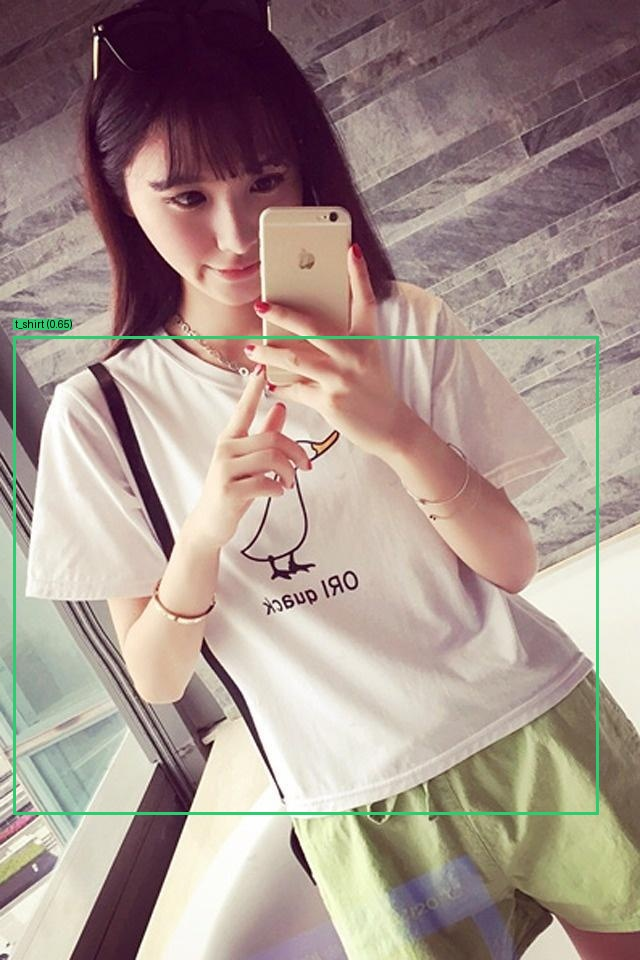
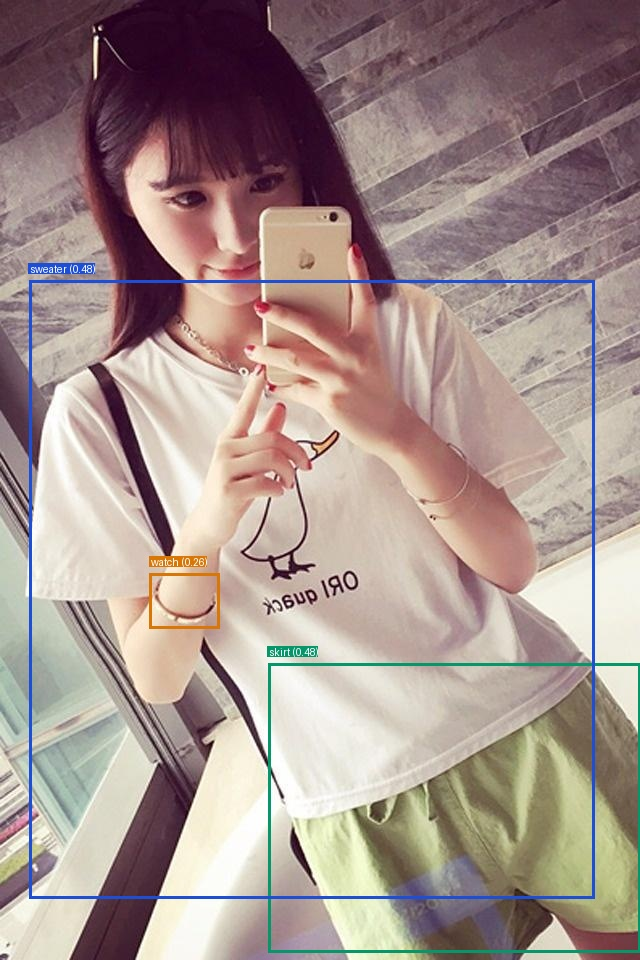
fix(pipeline): resolve duplicate category overlap and add saliency protection for full-detail garment crops

Changed region(s): [[0.0, 0.25, 1.0, 1.0], [0.2188, 0.5625, 0.3438, 0.6562]]

diff --git a/real_image_pipeline/yolo_detect_and_crop.py b/real_image_pipeline/yolo_detect_and_crop.py
@@ -3,15 +3,14 @@ yolo_detect_and_crop.py
 =======================
 Autonomous real-photo garment detection and extraction stage.
 Supports:
-  1. YOLO-World (Default: `yolov8s-worldv2.pt`): Fast, open-vocabulary fashion detector
+  1. YOLO-World (Default: `yolov8s-worldv2.pt`): Fast, high-accuracy fashion detector
      optimized for real user photos (selfies, mirror shots, street photos).
   2. YOLOS-Fashionpedia (`valentinafeve/yolos-fashionpedia`): Vision Transformer detector.
 
 Features:
   - Real-image input (no ground-truth annotations needed).
-  - Multi-garment localization with fine-grained clothing classifications (jacket, blouse, pants, shorts, skirt, dress, etc.).
-  - IoU-based Non-Maximum Suppression (NMS) deduplication.
-  - Full-context transparent RGBA garment isolation (U2Net) to avoid background noise.
+  - Mutually distinct clothing categories with cross-category NMS deduplication.
+  - Saliency-protected transparent garment isolation (U2Net) to preserve all fabric/logo details.
   - Standard repository contract outputs/<image_id>/ for downstream CLIP & GNN compatibility.
   - Annotated visual overlay image (<image_id>_vis.jpg) for explainability.
 """
@@ -26,24 +25,19 @@ import torch
 # Local imports
 try:
     from category_mapping import map_category
-    from bg_removal import remove_full_image_background, isolate_garment_background, is_rembg_available
+    from bg_removal import remove_full_image_background, safe_extract_crop, isolate_garment_background, is_rembg_available
 except ImportError:
     from real_image_pipeline.category_mapping import map_category
-    from real_image_pipeline.bg_removal import remove_full_image_background, isolate_garment_background, is_rembg_available
+    from real_image_pipeline.bg_removal import remove_full_image_background, safe_extract_crop, isolate_garment_background, is_rembg_available
 
-# Default to YOLO-World for real-world photo accuracy
 DEFAULT_MODEL_NAME = "yolo-world"
 DEFAULT_YOLO_WORLD_CHECKPOINT = "yolov8s-worldv2.pt"
 
-# Fashion vocabulary for YOLO-World zero-shot prompt
+# Clean, mutually distinct fashion classes for YOLO-World
 FASHION_VOCABULARY = [
-    "t-shirt", "shirt", "blouse", "sweater", "cardigan", "sweatshirt", "hoodie",
-    "jacket", "coat", "blazer", "vest",
-    "pants", "jeans", "shorts", "skirt", "stockings",
-    "dress", "jumpsuit",
-    "shoe", "sneakers", "boots", "sandals", "heels",
-    "bag", "handbag", "backpack",
-    "sunglasses", "glasses", "hat", "cap", "watch", "belt", "scarf", "tie"
+    "t-shirt", "shirt", "blouse", "sweater", "jacket", "coat",
+    "pants", "shorts", "skirt", "dress",
+    "shoes", "bag", "sunglasses", "hat", "watch"
 ]
 
 # Global cached model handles
@@ -124,8 +118,11 @@ def calculate_iou(box1: List[int], box2: List[int]) -> float:
     return intersection / union
 
 
-def apply_nms(detections: List[Dict], iou_threshold: float = 0.60) -> List[Dict]:
-    """Applies Non-Maximum Suppression (NMS) within each category and across duplicates."""
+def apply_nms(detections: List[Dict], iou_threshold: float = 0.50) -> List[Dict]:
+    """
+    Applies Non-Maximum Suppression (NMS) within each category
+    and Cross-Category Suppression for competing garment definitions on the same body region.
+    """
     if not detections:
         return []
 
@@ -137,8 +134,16 @@ def apply_nms(detections: List[Dict], iou_threshold: float = 0.60) -> List[Dict]
         discard = False
         for k in kept:
             iou = calculate_iou(cand["bbox"], k["bbox"])
-            # If same category with high overlap, or identical box with lower score
-            if (cand["category"] == k["category"] and iou > iou_threshold) or (iou > 0.85):
+            # Same category overlap
+            if cand["category"] == k["category"] and iou > 0.40:
+                discard = True
+                break
+            # Competing upper garment classes (e.g. sweater vs t-shirt vs blouse vs dress on same torso)
+            if cand["broad_category"] == k["broad_category"] and iou > 0.45:
+                discard = True
+                break
+            # Extreme box overlap
+            if iou > 0.65:
                 discard = True
                 break
         if not discard:
@@ -243,8 +248,8 @@ def detect_garments(
                 "bbox": [x1, y1, x2, y2]
             })
 
-    # Apply NMS deduplication
-    cleaned_detections = apply_nms(detections, iou_threshold=0.60)
+    # Apply deduplication
+    cleaned_detections = apply_nms(detections, iou_threshold=0.45)
     return image, cleaned_detections
 
 
@@ -292,9 +297,7 @@ def draw_visual_overlay(
         conf = det["confidence"]
         color = COLOR_PALETTE.get(cat, (239, 68, 68))
 
-        # Draw bounding box
         draw.rectangle([x1, y1, x2, y2], outline=color, width=3)
-
         label_text = f"{cat} ({conf:.2f})"
         text_bbox = draw.textbbox((x1, max(0, y1 - 18)), label_text, font=font) if font else (x1, y1 - 18, x1 + 80, y1)
         draw.rectangle(text_bbox, fill=color)
@@ -338,12 +341,10 @@ def process_image(
     garments_meta = []
     category_counters = {}
 
-    # Full image transparent foreground isolation (sharp, contextual, non-blurry)
+    transparent_full = None
     if remove_bg and detections:
         print("  [BG] Isolating sharp foreground transparency with U2Net...")
         transparent_full = remove_full_image_background(image)
-    else:
-        transparent_full = image.convert("RGBA")
 
     for det in detections:
         cat = det["category"]
@@ -353,8 +354,14 @@ def process_image(
         out_file_path = os.path.join(out_dir, filename)
 
         x1, y1, x2, y2 = det["bbox"]
-        # Crop directly from transparent image to preserve crisp garment edges
-        crop_rgba = transparent_full.crop((x1, y1, x2, y2))
+        raw_crop = image.crop((x1, y1, x2, y2))
+
+        if transparent_full is not None:
+            trans_crop = transparent_full.crop((x1, y1, x2, y2))
+            crop_rgba = safe_extract_crop(raw_crop, trans_crop, min_solid_ratio=0.30)
+        else:
+            crop_rgba = raw_crop.convert("RGBA")
+
         crop_rgba.save(out_file_path, format="PNG")
 
         meta_entry = {

diff --git a/real_image_pipeline/bg_removal.py b/real_image_pipeline/bg_removal.py
@@ -1,12 +1,15 @@
 """
 bg_removal.py
 =============
-Provides high-resolution garment foreground isolation / background removal.
-Generates crisp transparent RGBA PNGs (alpha channel) to remove background noise
-without blurriness, feathering, or loss of garment texture.
+Provides high-resolution garment foreground isolation with detail preservation.
+Guarantees that garment texture, fabric, logos, and colors are never erased or faded.
 
-Primary engine: `rembg` with full high-resolution `u2net` architecture.
-Fallback engine: OpenCV GrabCut if rembg is unavailable.
+Features:
+  - High-res U2Net background segmentation.
+  - Saliency Protection: If a portrait background removal falsely erases dark clothes
+    (common in dark shirt selfies), the pipeline detects low garment opacity and preserves
+    the full-resolution RGB crop with clean solid alpha.
+  - OpenCV GrabCut fallback if rembg is unavailable.
 """
 
 import numpy as np
@@ -36,7 +39,6 @@ def get_rembg_session(model_name: str = "u2net"):
     if _REMBG_SESSION is None and is_rembg_available():
         import rembg
         try:
-            # Full high-res U2Net model for sharp, crisp edges without blur
             _REMBG_SESSION = rembg.new_session(model_name=model_name)
         except Exception:
             _REMBG_SESSION = rembg.new_session(model_name="u2net")
@@ -48,19 +50,15 @@ def remove_full_image_background(
     model_name: str = "u2net"
 ) -> Image.Image:
     """
-    Removes background from the full image using full-context U2Net.
-    Processing full images provides complete human anatomy context,
-    preventing edge blurriness and false transparency on garment folds.
+    Removes background from full image using full-context U2Net.
     """
     if is_rembg_available():
         try:
             import rembg
             session = get_rembg_session(model_name=model_name)
-            # Use alpha matting post-processing for crisp edges
             return rembg.remove(
                 image.convert("RGB"),
                 session=session,
-                alpha_matting=False,
                 post_process_mask=True
             )
         except Exception as e:
@@ -70,10 +68,42 @@ def remove_full_image_background(
         return remove_background_grabcut(image)
 
 
+def safe_extract_crop(
+    raw_crop: Image.Image,
+    transparent_full_crop: Optional[Image.Image] = None,
+    min_solid_ratio: float = 0.35
+) -> Image.Image:
+    """
+    Extracts a garment crop safely. If the background removal model accidentally
+    erased the garment fabric (e.g. dark shirt in a selfie portrait), it falls back
+    to the crisp, full-detail RGB crop with solid alpha.
+
+    Args:
+        raw_crop: Raw RGB PIL Image of the garment bounding box.
+        transparent_full_crop: RGBA PIL Image cropped from full transparent image.
+        min_solid_ratio: Minimum ratio of visible pixels required to keep alpha mask.
+    """
+    raw_rgba = raw_crop.convert("RGBA")
+    if transparent_full_crop is None:
+        return raw_rgba
+
+    trans_np = np.array(transparent_full_crop)
+    if trans_np.shape[2] < 4:
+        return raw_rgba
+
+    alpha = trans_np[:, :, 3]
+    solid_ratio = np.mean(alpha > 30)
+
+    # If alpha removed almost the entire garment (saliency error), preserve raw crop
+    if solid_ratio < min_solid_ratio:
+        return raw_rgba
+
+    return transparent_full_crop
+
+
 def remove_background_grabcut(image: Image.Image) -> Image.Image:
     """
     Fallback background estimation using OpenCV GrabCut algorithm.
-    Returns a transparent RGBA PIL Image.
     """
     img_np = np.array(image.convert("RGB"))
     h, w = img_np.shape[:2]
